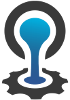
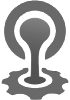
More visual improvements to landing page

diff --git a/website/src/pages/index.js b/website/src/pages/index.js
@@ -96,7 +96,7 @@ function Home() {
       title={`Home`}
       description="Stratos - Web-based Management Interface for Cloud Foundry and Kubernetes">
       <header className={clsx('hero hero--primary', styles.heroBanner)}>
-        <div className="container">
+        <div className="container home-intro">
           <h1 className="hero__title">{siteConfig.title}</h1>
           <p className="hero__subtitle">{siteConfig.tagline}</p>
           <div className={styles.buttons}>
@@ -110,6 +110,7 @@ function Home() {
             </Link>
           </div>
         </div>
+        <img class="home-logo" src="img/logo.png" />
       </header>
       <main>
         {features && features.length > 0 && (
@@ -123,6 +124,17 @@ function Home() {
             </div>
           </section>
         )}
+        <section className={clsx(styles.features, 'screenshot-section')}>
+          <div className="container">
+            <div class="screenshot">
+              <img src="img/app-summary.png" />
+              <div>
+                Stratos provides a rich, modern, web-based management user interface
+                for both Cloud Foundry and Kubernetes.
+              </div>
+            </div>
+          </div>
+        </section>
       </main>
     </Layout>
   );

diff --git a/website/src/css/custom.css b/website/src/css/custom.css
@@ -102,3 +102,51 @@ img.cf-logo {
 #__docusaurus .docSidebarContainer_node_modules-\@docusaurus-theme-classic-src-theme-DocPage- {
   width: 280px;
 }
+
+.home-intro {
+  margin-right: 150px;
+}
+
+.home-logo {
+  height: 300px;
+  opacity: .9;
+  position: absolute;
+  right: -150px;
+}
+
+@media screen and (max-width: 966px) {
+  .home-logo {
+    display: none;
+  }
+}
+
+/* Screenshot */
+
+.screenshot-section {
+  background-color: #2196f3;
+  color: #fff
+}
+
+.screenshot {
+  display: flex;
+  margin: 60px 0;
+}
+
+.screenshot img {
+  width: 600px;
+  -webkit-box-shadow: 0px 0px 37px 15px rgba(20,20,20,0.75);
+  -moz-box-shadow: 0px 0px 37px 15px rgba(20,20,20,0.75);
+  box-shadow: 0px 0px 37px 15px rgba(20,20,20,0.75);  
+  margin-right: 60px;
+}
+
+.screenshot div {
+  font-size: 20px;
+}
+
+@media screen and (max-width: 966px) {
+  .screenshot img {
+    display: none;
+    margin: 0;
+  }
+}
